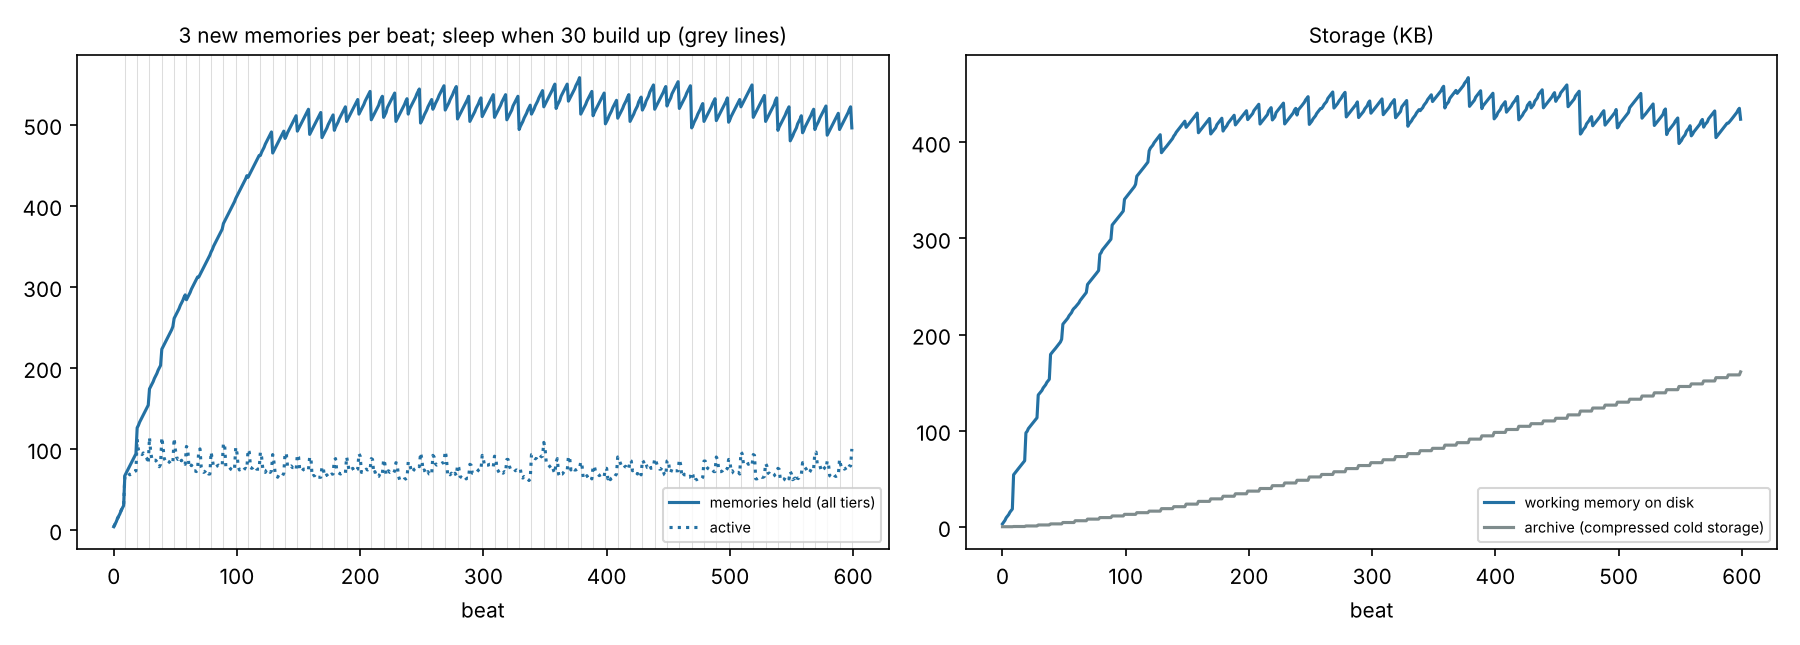
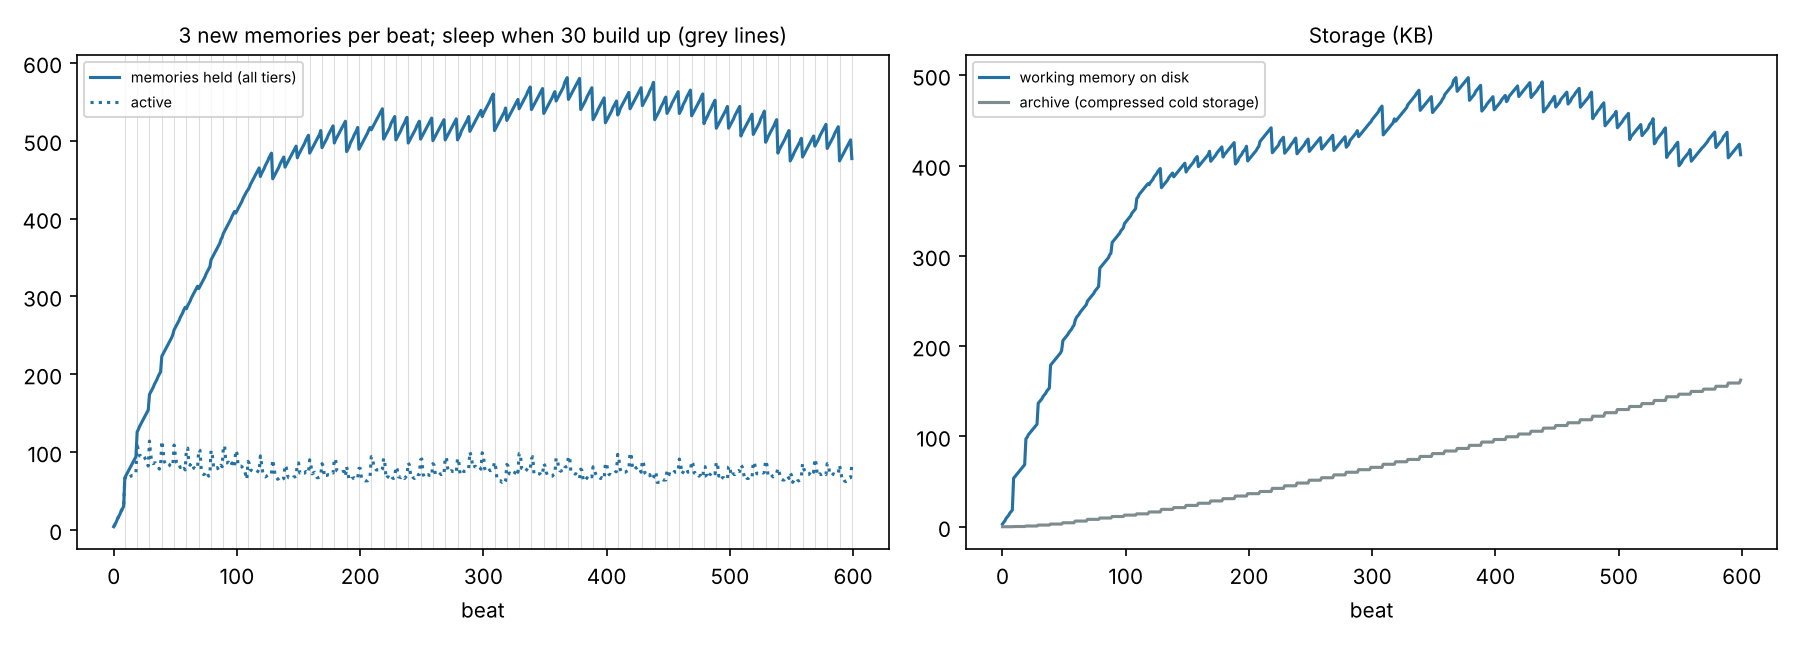
One session, one beat; nights stop crowding out what was learned
Two findings from real Claude runs (harness family-saga):

Clock. Only `ens next-beat` advanced time and nothing calls it in everyday use, so memories
never faded or earned spaced promotions (every memory stayed short-term). The SessionStart
hook (`ens --listen`) now advances one beat when Claude Code reports a new session (source
"startup"), not on resume, /clear, compaction or a manual run. SPACING is 2 beats (two
sessions apart) instead of 3.

Nights. A night made about 5 ideas per waking memory (recipe-core: 7 waking, 35 ideas), and
listen shows only the top 5 summary lines, so ideas pushed real memories out of view.
- The summary lists waking/confirmed memories first, then at most 2 unconfirmed dream ideas,
  tagged; poems, probes, excursions and predictions are left to recall. The header counts them.
- Only add, qualify and tension insights become memories; reinforce and substitute insights
  restated the pair (38 of 89 stored insights in the first saga).
- The night skill says an insight is a claim that helps a later decision, not a to-do.

Harness: drops the variables a parent cloud session sets that stop project hooks from running,
relies on the hook for the session beat (beats_per_session now adds extra time), and the
offline agent fires the hook like Claude Code does.

Claude-Session: https://claude.ai/code/session_01CDMysQZSafuGv5TGPW199h

diff --git a/packages/ensemble/memory.py b/packages/ensemble/memory.py
@@ -38,7 +38,7 @@ import numpy as np
 GAMMA = {0: 0.80, 1: 0.95, 2: 0.99}
 TIER = {0: "short", 1: "intermediate", 2: "long"}
 PROMOTE_AT = {1: 2, 2: 5}         # spaced uses needed to reach consolidation level
-SPACING = 3                        # beats between uses for a use to count as spaced
+SPACING = 2                        # beats between uses for a use to count as spaced (a beat is a session)
 DORMANT = 0.05
 BUFF0, FLOOR_CAP = 0.02, 0.15      # n-th buff adds BUFF0 / n, floor never exceeds the cap
 S_MAX = 1.0
@@ -46,10 +46,12 @@ REVIVE = 0.5                       # similarity x cue strength needed to wake a 
 REVIVED_AT = 0.6
 RECALL_MIN = 0.3                   # similarity needed for an active memory to count as recalled
 SUMMARY_K = 12
+SUMMARY_IDEAS = 2                  # unconfirmed dream ideas shown in the summary, after waking memories
 SLOW_CAP = 3.0                     # dream buffs: decay exponent divided by (1 + slow), slow <= cap
 FRUITLESS_K = 5                    # dream exposures with no connection before a dormant memory may go
 MIN_AGE = 50                       # ...and beats untouched, times (1 + uses + 2 x revivals)
 SLEEP_PRESSURE = 30                # new waking memories that make sleep due
+INSIGHT_OPS = ("add", "qualify", "tension")   # verdicts whose insight is stored as a new memory
 DREAM_SOURCES = ("dream", "qualify", "tension", "poem", "probe", "excursion", "prediction")
 IMAGINED = ("poem", "probe", "excursion", "prediction")   # language and play: never referents, never facts
 PRECISION_MARGIN = 0.02            # an alias must be this much closer to its memory than to any other
@@ -342,15 +344,25 @@ class MemoryStore:
 
     # ---------------------------------------------------------------- summary
     def _summary_text(self, idx):
+        """The strongest memories, what was learned awake first. Nights make several ideas for every
+        waking memory (5 to 1 in real runs), so unconfirmed ideas get at most SUMMARY_IDEAS lines, after
+        the rest, and imagined ones (poems, probes, excursions, predictions) none: recall finds them."""
         now = idx["beat"]
         active = [(self.strength(m, now), mid, m) for mid, m in idx["m"].items()
                   if not m["dormant"] and not m.get("lesson")]
         n_lessons = sum(1 for m in idx["m"].values() if m.get("lesson"))
         active.sort(reverse=True, key=lambda x: x[0])
         n_dormant = sum(m["dormant"] for m in idx["m"].values())
-        lines = [f"beat {now} | {len(active)} active, {n_dormant} dormant, {n_lessons} lessons | strongest {min(self.k, len(active))}:"]
-        for s, mid, m in active[: self.k]:
-            tag = " (imagined)" if m.get("src") in IMAGINED and m.get("origin") != "confirmed" else ""
+        imagined = [a for a in active if a[2].get("src") in IMAGINED and a[2].get("origin") != "confirmed"]
+        ideas = [a for a in active if a[2].get("origin") == "dream" and a not in imagined]
+        known = [a for a in active if a not in imagined and a not in ideas]
+        n_ideas = min(SUMMARY_IDEAS, len(ideas))
+        shown = known[: self.k - n_ideas] + ideas[:n_ideas]
+        n_night = len(ideas) + len(imagined)
+        lines = [f"beat {now} | {len(known)} active, " + (f"{n_night} ideas from nights, " if n_night else "")
+                 + f"{n_dormant} dormant, {n_lessons} lessons | strongest {len(shown)}:"]
+        for s, mid, m in shown:
+            tag = " (idea, unconfirmed)" if m.get("origin") == "dream" else ""
             lines.append(f"{mid} {TIER[m['c']][:5]} {s:.2f}{tag}: {m['head'][:80]}")
         return "\n".join(lines)
 
@@ -687,7 +699,7 @@ class MemoryStore:
         elif op == "tension":
             for m in (a, b):
                 self._reanchor(m, now); m["touch"] = now
-        if v.get("insight"):
+        if v.get("insight") and op in INSIGHT_OPS:      # reinforce and replace say nothing the pair doesn't
             source = {"qualify": "qualify", "tension": "tension"}.get(op, "dream")
             key = f"{min(ai, bi)}|{max(ai, bi)}|{op}"
             seen = idx.setdefault("dream_pairs", {})

diff --git a/harness/lab.py b/harness/lab.py
@@ -47,7 +47,10 @@ ALLOWED_TOOLS = ["Read", "Edit", "Write", "Glob", "Grep", "TodoWrite", "Skill",
 NUDGE = ("This project uses Ensemble for long-lived memory (the `ensemble` skill, `ens` in Bash). "
          "Use it as the skill describes.")
 INHERITED_DROP = ("CLAUDE_MEMORY_STORES", "CLAUDE_COWORK_MEMORY_PATH_OVERRIDE", "CLAUDE_ADDITIONAL_DIRECTORIES",
-                  "CLAUDE_CODE_CHILD_NOTES_DIR")
+                  "CLAUDE_CODE_CHILD_NOTES_DIR",
+                  # set when the harness itself runs inside a cloud Claude session; with them, project
+                  # hooks (the SessionStart `ens --listen`) silently don't run
+                  "CLAUDE_CODE_REMOTE", "CLAUDE_CODE_ENTRYPOINT", "CLAUDE_CODE_IGNORE_PERSISTED_TRUST")
 NIGHT_PROMPT = "Run the ensemble-night skill now: dreams, poems and excursions. Then summarize what changed."
 
 
@@ -283,8 +286,8 @@ def commit_work(r, project, msg):
 
 
 def advance(r, project, beats):
-    # Nothing in Ensemble advances the beat except `ens next-beat`, and the skill doesn't say when.
-    # Guess: one beat per session, so fading and spaced promotion happen at all. Set "beats": 0 to test without.
+    # The SessionStart hook advances one beat per new session. Extra beats here model time passing
+    # between sessions (scenario "beats_per_session" or a step's "beats"; default 0).
     for _ in range(beats):
         r.ens(project, "next-beat")
 
@@ -380,7 +383,7 @@ def cmd_play(a):
     prog = rd(prog_path, {"done": []})
     steps = expand(sc["steps"])
     nudge_default = sc.get("nudge", True)
-    beats = sc.get("beats_per_session", 1)
+    beats = sc.get("beats_per_session", 0)
     for i, s in enumerate(steps):
         if i in prog["done"]:
             continue
@@ -655,7 +658,7 @@ def main(argv=None):
     p = add("session", cmd_session, "run", "project", claude=True)
     p.add_argument("task", nargs="?")
     p.add_argument("--prompt")
-    p.add_argument("--beats", type=int, default=1)
+    p.add_argument("--beats", type=int, default=0)
     add("night", cmd_night, "run", "project", claude=True)
     add("reunion", cmd_reunion, "run")
     add("milestone", cmd_milestone, "run", "project", "note")

diff --git a/packages/ensemble/ens.py b/packages/ensemble/ens.py
@@ -23,7 +23,8 @@ Environment:
     ENSEMBLE_EMBEDDER   keywords (default) | model2vec | gemini | st   (fixed once a store exists)
     ENSEMBLE_SLEEP_AT   new memories that make sleep due (default 30)
 
-`ens --listen` prints the conductor's view, never failing: use it as a SessionStart hook.
+`ens --listen` prints the conductor's view, never failing: use it as a SessionStart hook. On a new
+session (the hook's input says source "startup") it first advances the beat: one session, one beat.
 """
 import json
 import os
@@ -485,6 +486,19 @@ Every command takes --agent NAME (default conductor) and --help. JSON for *-appl
 named .ensemble-* is deleted once applied), stdin, or one argument."""
 
 
+def session_started():
+    """True when Claude Code's SessionStart hook says a new session started (not a resume, /clear or
+    compaction). Nothing else moves Ensemble's clock in everyday use, so without this, memories never
+    fade or get spaced promotions."""
+    import select
+    try:
+        if sys.stdin is None or sys.stdin.isatty() or not select.select([sys.stdin], [], [], 1.0)[0]:
+            return False                                       # run by hand, or nothing piped in
+        return json.loads(sys.stdin.read() or "{}").get("source") == "startup"
+    except (ValueError, OSError, AttributeError):
+        return False
+
+
 def cli(argv):
     import inspect
     if not argv or argv[0] in ("-h", "--help", "help"):
@@ -493,6 +507,8 @@ def cli(argv):
         serve_mcp(); return 0
     if argv[0] == "--listen":                                  # SessionStart hook
         try:
+            if session_started():                              # a new session is one beat of the clock
+                player("conductor").next_beat()
             print("Ensemble (this project's shared memory):\n" + listen_text())
         except Exception as err:                               # never block a session start
             print(f"Ensemble unavailable: {err}")

diff --git a/packages/ensemble/test_memory.py b/packages/ensemble/test_memory.py
@@ -119,6 +119,26 @@ def _worker(args):
     return len(ids)
 
 
+def test_nights_do_not_crowd_out_what_was_learned():
+    """In real runs nights made about 5 ideas per waking memory, and listen shows only the top 5 lines."""
+    s = MemoryStore(tempfile.mkdtemp())
+    real = [s.remember(f"decision {i}: money is integer cents in module {i}", 0.4) for i in range(3)]
+    for i in range(8):
+        s.remember(f"poem line {i}", 0.9, "poem")
+        s.remember(f"dream idea {i} linking cents and packs", 0.9, "dream")
+    lines = s.summary().splitlines()
+    assert all(any(r in l for l in lines[1:4]) for r in real), lines          # waking first, despite lower strength
+    assert not any("poem line" in l for l in lines) and sum("(idea, unconfirmed)" in l for l in lines) == 2
+    assert "3 active, 16 ideas from nights" in lines[0]
+    a, b = real[0], real[1]
+    n = len(s.rows())
+    s.sleep(lambda x, y, sim: {"op": "reinforce", "score": 0.9, "insight": "they agree"}, cycles=1,
+            pairs_per_cycle=4, plan=[[(a, b)]])
+    assert s._load()["m"][a]["dream_links"] == 1                             # the pair was judged...
+    assert len(s.rows()) == n                                                 # ...and its reinforce insight added nothing
+    return "summary: waking memories first, 2 unconfirmed ideas, no poems; reinforce insights aren't stored"
+
+
 def test_concurrent_agents():
     s = fresh("conc")
     with mp.Pool(8) as pool:

diff --git a/packages/ensemble/test_claude_code.py b/packages/ensemble/test_claude_code.py
@@ -109,6 +109,18 @@ def test_the_hook_never_blocks_a_session():
     return "with an unusable ENSEMBLE_HOME the SessionStart hook prints a note instead of failing"
 
 
+def test_a_new_session_is_one_beat():
+    """Only next-beat moved the clock, and nothing calls it in everyday use, so memories never faded or
+    got spaced promotions. The SessionStart hook now advances one beat on a new session."""
+    h = tempfile.mkdtemp()
+    run(["remember", "deploys go out on tuesdays"], h)
+    hook = lambda source: run(["--listen"], h, stdin=json.dumps({"hook_event_name": "SessionStart", "source": source}))
+    assert "beat 1" in hook("startup") and "beat 2" in hook("startup")
+    assert "beat 2" in hook("resume") and "beat 2" in hook("compact")       # not a new session
+    assert "beat 2" in run(["--listen"], h, stdin="")                       # run by hand
+    return "startup advances the beat; resume, compact and a manual --listen don't"
+
+
 def test_projects_follow_the_working_folder_and_join_the_family():
     h = tempfile.mkdtemp()
     a, b = os.path.join(h, "alpha"), os.path.join(h, "beta")

diff --git a/harness/fake_agent.py b/harness/fake_agent.py
@@ -21,8 +21,8 @@ def _rng(*parts):
 
 
 def session(r, project, task):
-    calls = ["ens listen"]
-    r.ens(project, "listen")
+    calls = ["ens --listen (hook)"]
+    r.ens(project, "--listen", stdin='{"hook_event_name": "SessionStart", "source": "startup"}')   # as the hook does
     found = r.ens(project, "recall", task.get("title") or task["prompt"][:80])
     calls.append("ens recall")
     for line in found.splitlines():

diff --git a/harness/README.md b/harness/README.md
@@ -72,9 +72,10 @@ It says nothing about whether Claude uses Ensemble well.
   parent's memory files.
 - **Nudge on by default.** A one-line `--append-system-prompt` says the project uses Ensemble. Without
   it a short `-p` task may never touch the skill; `no-nudge` measures that.
-- **One beat per session.** Only `ens next-beat` advances Ensemble's clock, and the skill doesn't say
-  when to call it, so in real use memories may never fade or get spaced promotions. The harness calls
-  it once after each session (`beats_per_session`, or `"beats"` per step; 0 turns it off).
+- **One beat per session.** The SessionStart hook (`ens --listen`) advances Ensemble's clock once per
+  new session. `beats_per_session` (or `"beats"` per step) adds more, to model days between sessions.
+  The harness drops a few variables a parent cloud Claude session sets, without which project hooks
+  don't run in the child sessions.
 - **Allowed tools.** Read/Edit/Write/Glob/Grep, the Skill tool, and Bash limited to `ens`, `python`,
   `git`, `ls`, `cat`, `head`, `grep`, `mkdir`, with `--permission-mode acceptEdits`. Anything else is
   refused rather than asked, which shows up in the transcript.

diff --git a/packages/ensemble/claude/skills/ensemble-night/SKILL.md b/packages/ensemble/claude/skills/ensemble-night/SKILL.md
@@ -26,6 +26,9 @@ mean nothing: answer `none`. Otherwise:
 - `subtract`: one contradicts the other and is wrong. `keep` is the right one.
 - `tension`: they conflict and you cannot tell which holds; describe the conflict (it goes to a vote).
 
+Only `add`, `qualify` and `tension` insights are kept, as new memories; leave `insight` null for the
+rest. An insight is a claim about the project that would help a later session decide something,
+not a to-do ("add a test for ...") and not a restatement of the pair. When in doubt, `none`.
 Prefer `qualify` or `tension` to discarding a lesson that may still be valuable. Imagined memories
 can only be linked or reinforced. Then:
 
